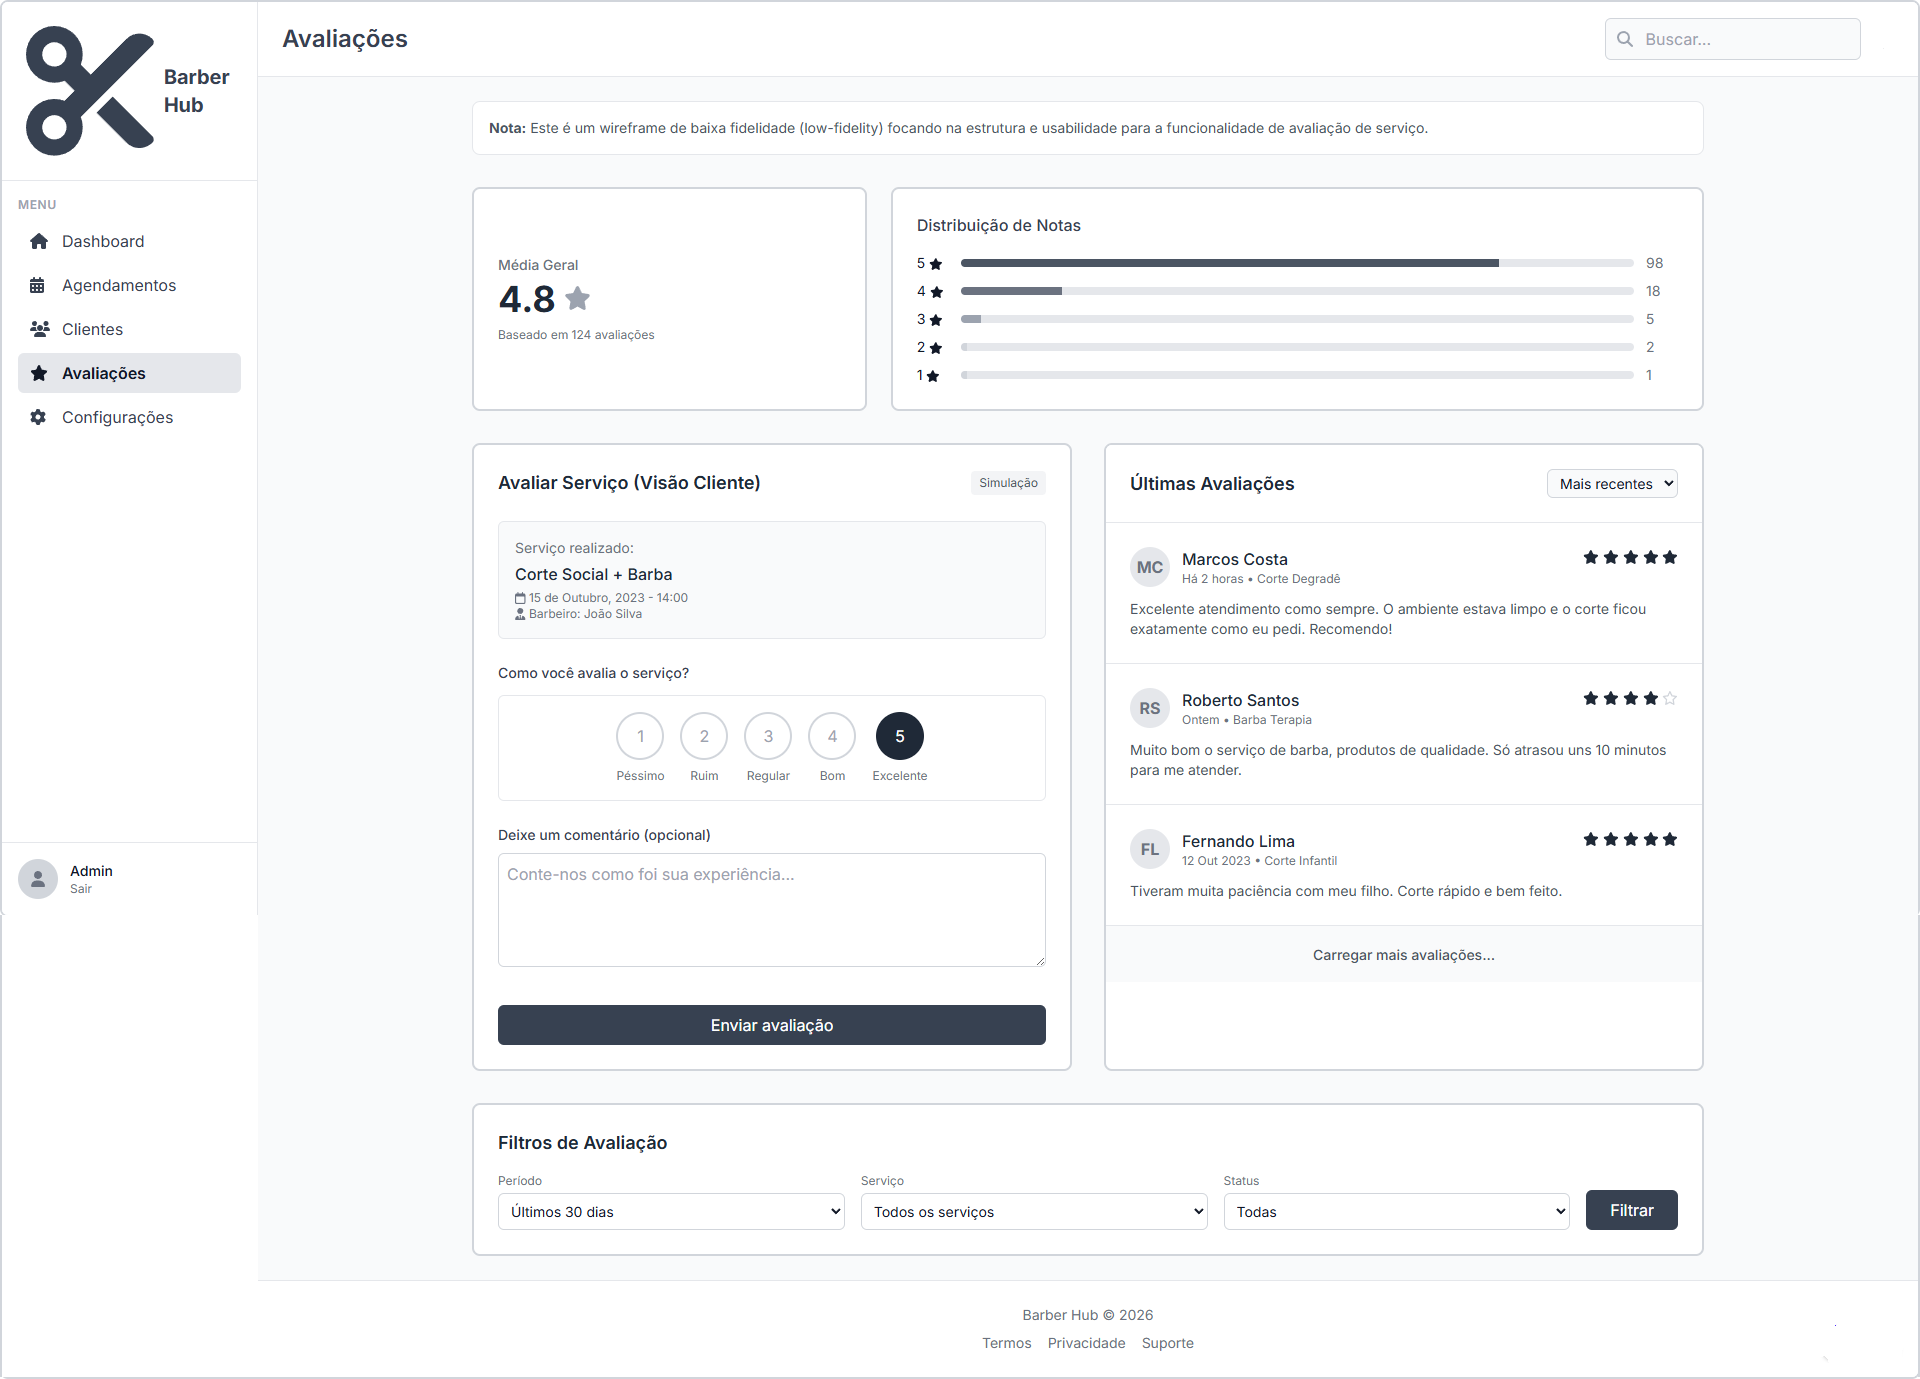
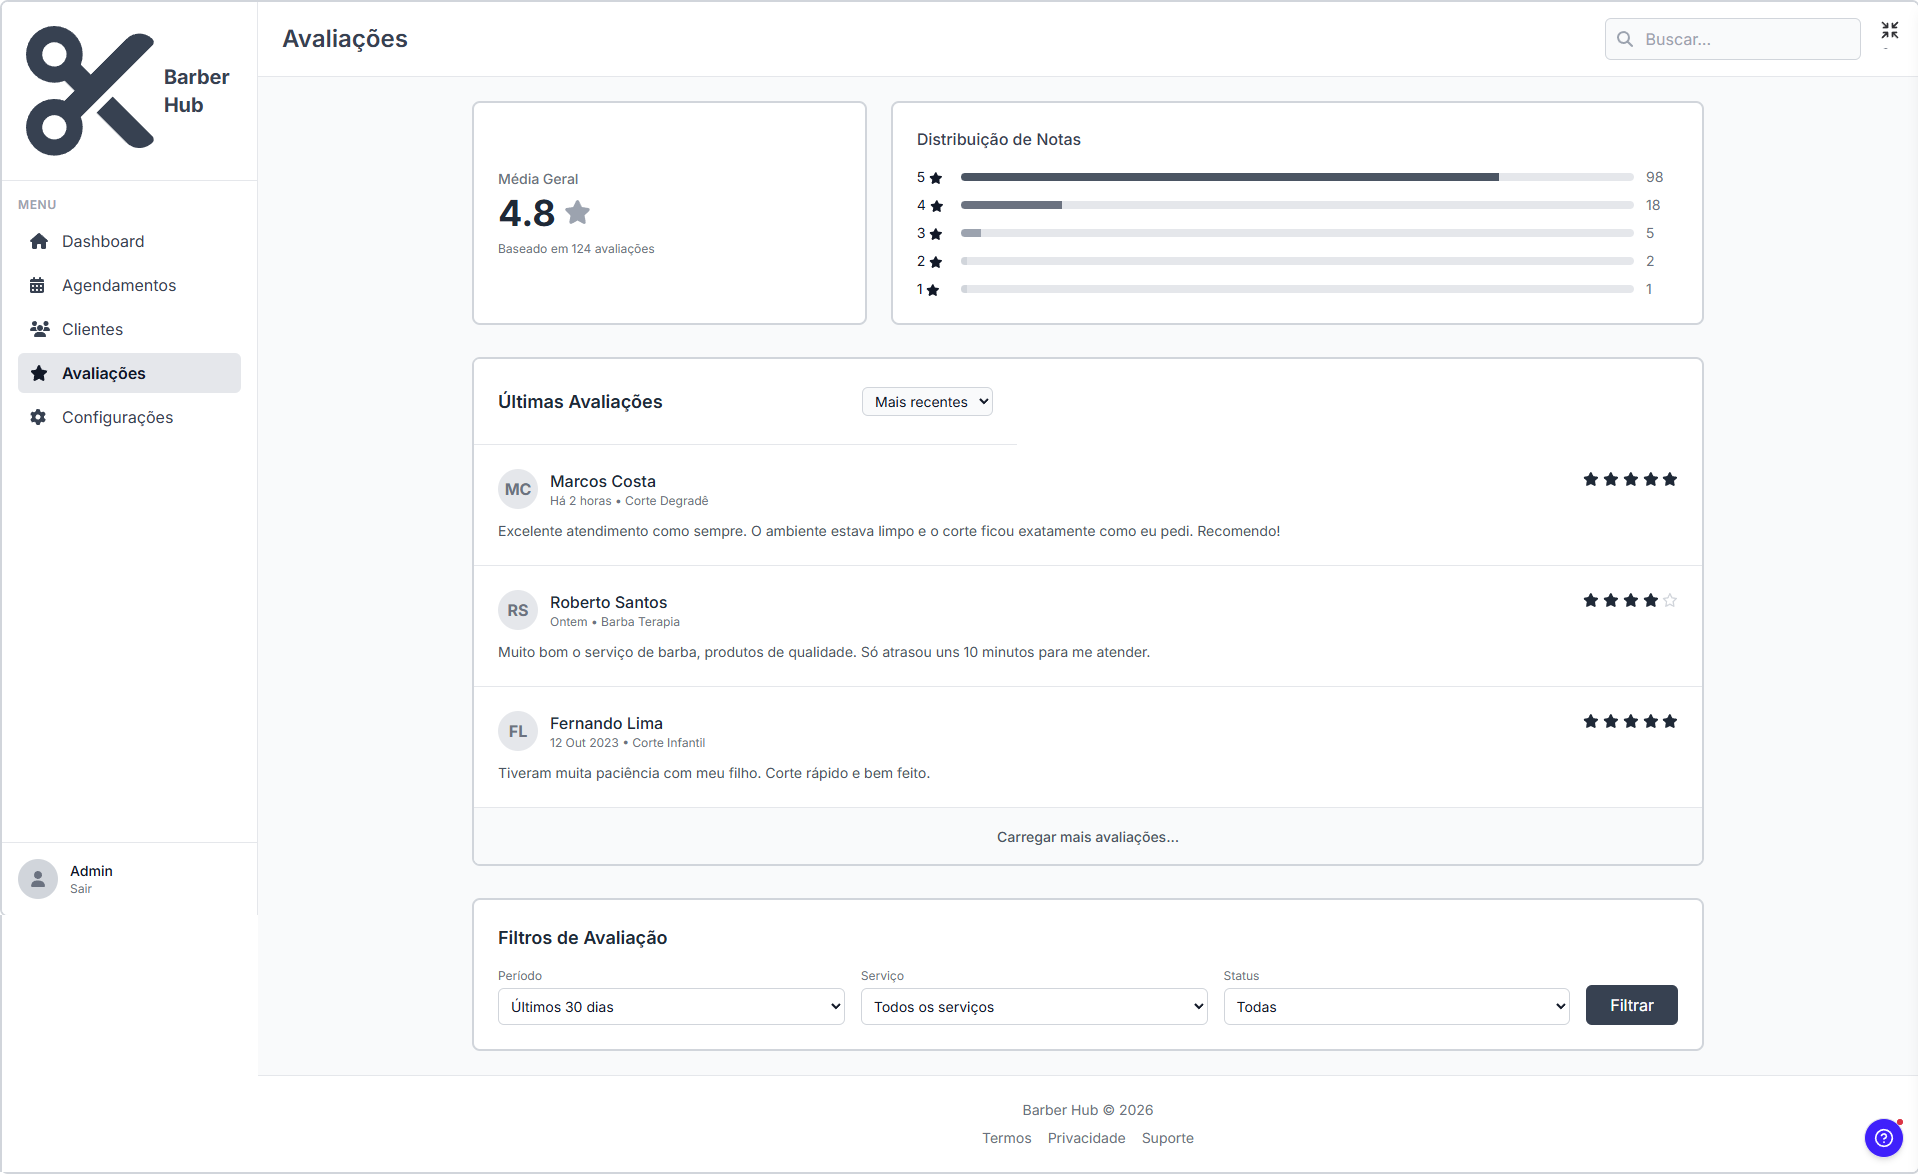
Projeto solução atualizado

diff --git a/docs/4-Projeto-Solucao.md b/docs/4-Projeto-Solucao.md
@@ -38,6 +38,22 @@ Toda a comunicação acontece de forma segura, e a arquitetura foi organizada pa
 # Código 
 [Visualização-Barbeiro](../src/src/components/VisualizacaoBarbeiro.jsx)
 
+# Avaliação Cliente
+![Wireframe](./images/wireframeAvaliacaoCliente.png)
+# Código 
+[Avaliação-Cliente](../src/src/components/AvaliacaoCliente.jsx)
+
+# Avaliação Barbeiro
+![Wireframe](./images/wireframeAvaliacao.png)
+# Código 
+[Avaliação-Barbeiro](../src/src/components/AvaliacaoBarbeiro.jsx)
+
+# Financeiro
+![Wireframe](./images/wireframeFinanceiro.png)
+# Código 
+[Financeiro](../src/src/components/GestaoFinanceira.jsx)
+
+
 
 
 ## Diagrama de Classes
